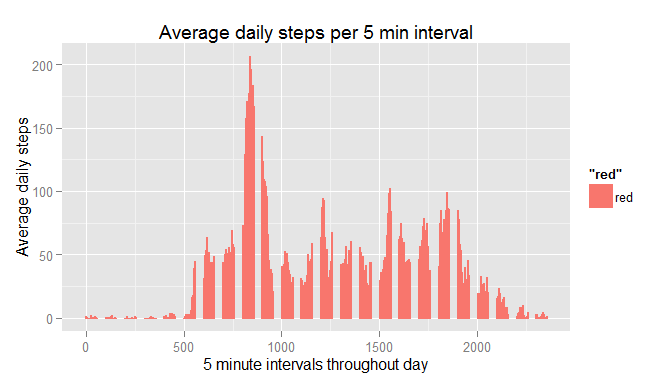
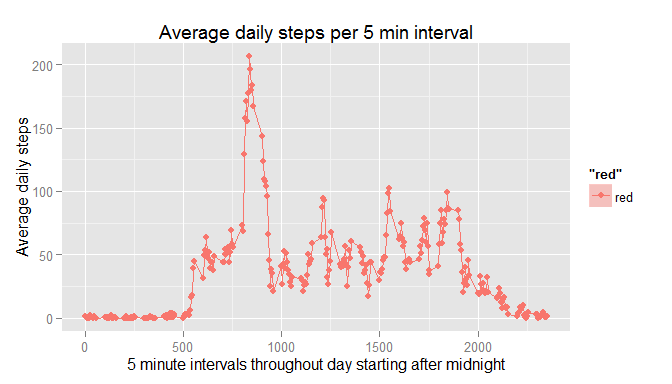
Final

diff --git a/PA1_template.html b/PA1_template.html
@@ -137,16 +137,17 @@ median_day &lt;- median(steps_per_day$steps_per_day, na.rm=TRUE)</code></pre>
 filename &lt;- &quot;2_ave_daily.png&quot;
 ave_daily_fig &lt;- paste(figdir, filename, sep=&quot;&quot;)
 png(filename = ave_daily_fig, width=600, height=600)
-g &lt;- qplot(interval, daily_ave, data=int_steps, geom=&quot;bar&quot;, stat=&quot;identity&quot;, 
+g &lt;- qplot(interval, daily_ave, data=int_steps, geom=c(&quot;point&quot;,&quot;smooth&quot;), stat=&quot;identity&quot;, 
            color=&quot;red&quot;, fill = &quot;red&quot;) +
-    xlab(&quot;5 minute intervals throughout day&quot;) + ylab(&quot;Average daily steps&quot;) +
+    xlab(&quot;5 minute intervals throughout day starting after midnight&quot;) + 
+    ylab(&quot;Average daily steps&quot;) +
     ggtitle(&quot;Average daily steps per 5 min interval&quot;)
 g
 dev.off()</code></pre>
 <pre><code>## png 
 ##   2</code></pre>
 <pre class="r"><code>g</code></pre>
[2 lines of base64/hex data omitted]
 <pre class="r"><code>max_steps &lt;- max(int_steps$daily_ave)
 max_day &lt;- which.max(int_steps$daily_ave)
 hour &lt;- trunc(max_day/12)
@@ -272,13 +273,14 @@ filename &lt;- &quot;4_weekday_vs_weekend_steps.png&quot;
 wday_wend_fig &lt;- paste(figdir, filename, sep=&quot;&quot;)
 png(filename = wday_wend_fig, width=600, height=600)
 g &lt;- qplot(data=wday_wend, interval, count, geom=c(&quot;point&quot;,&quot;smooth&quot;), stat=&quot;identity&quot;) +
-    facet_grid(day_type ~ .) + ggtitle(&quot;Comparison of walking weekday vs weekend&quot;)
+    facet_grid(day_type ~ .) + ggtitle(&quot;Comparison of walking weekday vs weekend&quot;) +
+    xlab(&quot;5 minute intervals starting after midnight&quot;)
 g
 dev.off()</code></pre>
 <pre><code>## png 
 ##   2</code></pre>
 <pre class="r"><code>g</code></pre>
[2 lines of base64/hex data omitted]
 <p>The histogram is stored in the file: <strong>figures/4_weekday_vs_weekend_steps.png</strong></p>
 </div>
 <div id="appendix" class="section level1">

diff --git a/PA1_template.md b/PA1_template.md
@@ -120,9 +120,10 @@ int_steps <- rawdata %>% group_by(interval) %>% summarise(daily_ave = mean(steps
 filename <- "2_ave_daily.png"
 ave_daily_fig <- paste(figdir, filename, sep="")
 png(filename = ave_daily_fig, width=600, height=600)
-g <- qplot(interval, daily_ave, data=int_steps, geom="bar", stat="identity", 
+g <- qplot(interval, daily_ave, data=int_steps, geom=c("point","smooth"), stat="identity", 
            color="red", fill = "red") +
-    xlab("5 minute intervals throughout day") + ylab("Average daily steps") +
+    xlab("5 minute intervals throughout day starting after midnight") + 
+    ylab("Average daily steps") +
     ggtitle("Average daily steps per 5 min interval")
 g
 dev.off()
@@ -307,7 +308,8 @@ filename <- "4_weekday_vs_weekend_steps.png"
 wday_wend_fig <- paste(figdir, filename, sep="")
 png(filename = wday_wend_fig, width=600, height=600)
 g <- qplot(data=wday_wend, interval, count, geom=c("point","smooth"), stat="identity") +
-    facet_grid(day_type ~ .) + ggtitle("Comparison of walking weekday vs weekend")
+    facet_grid(day_type ~ .) + ggtitle("Comparison of walking weekday vs weekend") +
+    xlab("5 minute intervals starting after midnight")
 g
 dev.off()
 ```
